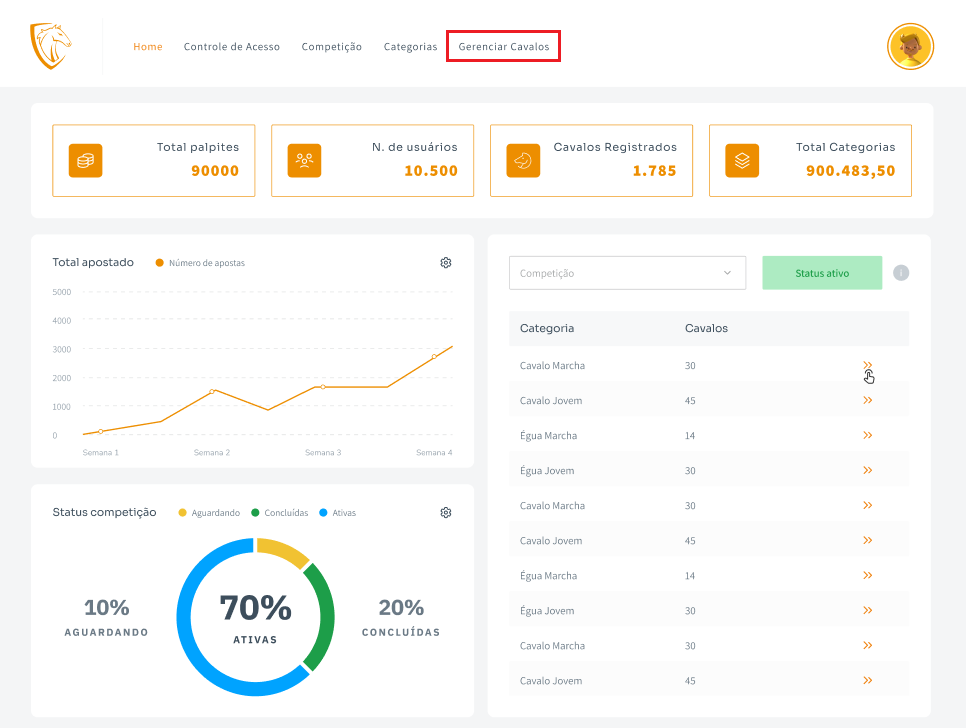
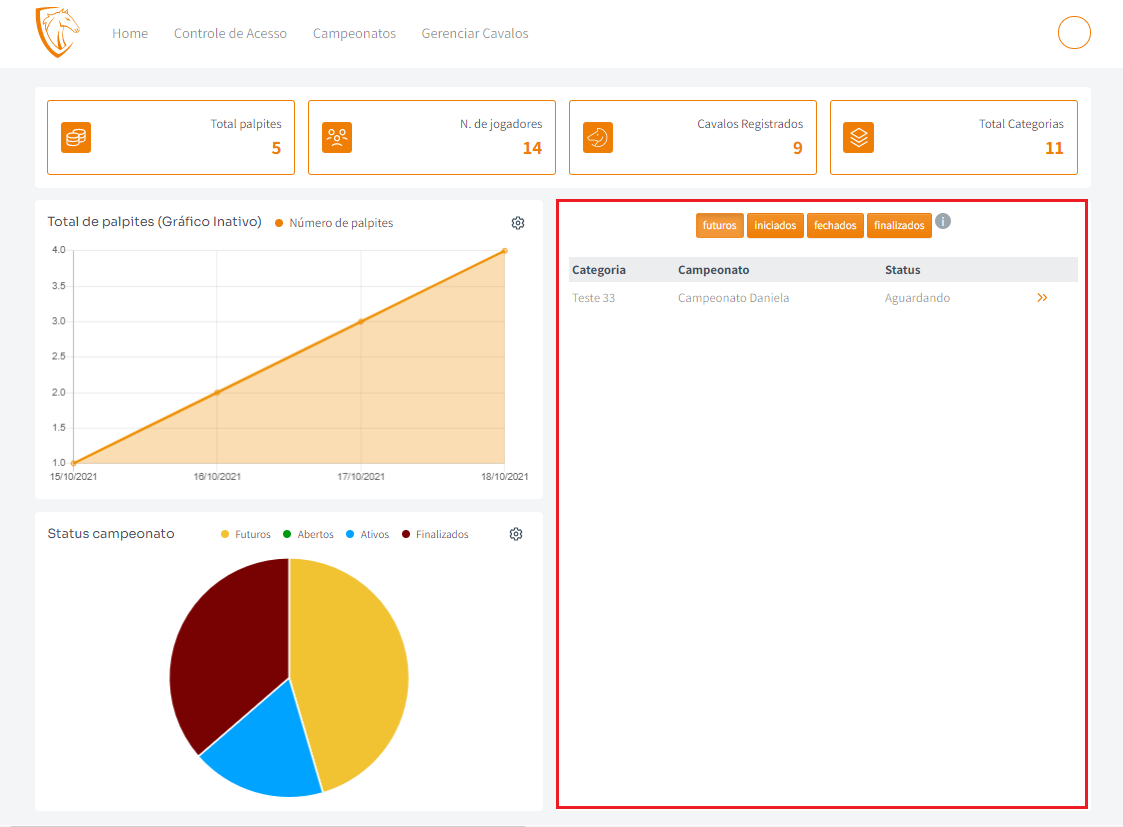
update1

diff --git a/docs/Manual do Backoffice/backoffice-mural.md b/docs/Manual do Backoffice/backoffice-mural.md
@@ -8,87 +8,60 @@ sidebar_position: 3
 
 ## NAVEGAÇÃO DA PLATAFORMA
 
-- Clicando em:
+![Mural](/img/backoffice/mural1.png)
 
-### MURAL
+#### HOME
 
 - Você acessa o Mural administrativo
 
-![Mural](/img/backoffice/mural1.png)
+#### CAMPEONATOS
 
-### CONTROLE DE ACESSO
+- Você acessa a area de gerenciamento de campeonatos
 
-- Você acessa o menu de gerenciamento de usuários
-
-![Mural](/img/backoffice/mural2.png)
-
-### COMPETIÇÃO
-
-- Você acessa a area de gerenciamento de competições
-
-![Mural](/img/backoffice/mural3.png)
-
-### CATEGORIAS 
-
-- Você acessa a area de gerenciamento de categorias
-
-![Mural](/img/backoffice/mural4.png)
-
-### GERENCIAR CAVALOS
+#### GERENCIAR CAVALOS
 
 - Você acessa a area de gerenciamento de cavalos
 
-![Mural](/img/backoffice/mural5.png)
-
-### GERENCIAR PONTUAÇÕES
+#### GERENCIAR PONTUAÇÕES
 
 - Você acessa a area de gerenciamento de pontuações dos campeonatos
 
 ## COMPOSIÇÃO DO MURAL
 
-- O mural é composto por:
+![Mural](/img/backoffice/mural2.png)
 
-### TOTAL DE PALPITES
+#### TOTAL DE PALPITES
 
 - Area onde sera mostrada o total de palpites feito pelos jogadores do Pisteiro
 
-![Mural](/img/backoffice/mural6.png)
-
-### NUMERO DE USUARIOS
+#### NUMERO DE USUARIOS
 
 - Area onde sera mostrado o numero de usuários cadastrados no Pisteiro
 
-![Mural](/img/backoffice/mural7.png)
-
-### CAVALOS REGISTRADOS
+#### CAVALOS REGISTRADOS
 
 - Area onde sera mostrado o numero de cavalos cadastrados no Pisteiro
 
-![Mural](/img/backoffice/mural8.png)
-
-### TOTAL DE CATEGORIAS
+#### TOTAL DE CATEGORIAS
 
 - Area onde sera mostrado o numero de categorias cadastradas no Pisteiro
 
-![Mural](/img/backoffice/mural9.png)
+## GRAFICOS
 
-### GRÁFICO DE PALPITES
+#### GRÁFICO DE PALPITES
+
+![Mural](/img/backoffice/mural3.png)
 
 - O gráfico mostra o numero de palpites feitos pelos jogadores do Pisteiro de acordo com o tempo
 
-![Mural](/img/backoffice/mural10.png)
-
-### GRÁFICO DE STATUS DA COMPETIÇÃO
+#### GRÁFICO DE STATUS DO CAMPEONATO
 
 - O gráfico mostra a comparação do numero de competições Aguardando, Ativas e Concluidas
 
-![Mural](/img/backoffice/mural11.png)
+![Mural](/img/backoffice/mural4.png)
 
-### STATUS DA COMPETIÇÃO SELECIONADA
+#### FILTRO DE CAMPEONATOS
 
-- Quando você selecionar uma competição, a area mostrara:
-    - Status da competição
-    - Categorias da competição
-    - Numero de cavalos cadastrados na categorias
+![Mural](/img/backoffice/mural5.png)
 
-![Mural](/img/backoffice/mural12.png)
+- Quando você selecionar um ou mais status, a area mostrara as competições com os status equivalentes.

diff --git a/docs/Manual do Backoffice/campeonato.md b/docs/Manual do Backoffice/campeonato.md
@@ -1,0 +1,48 @@
+# GERENCIAR CAMPEONATO
+
+Quando clicar em "Campeonatos" no canto superior, abrira a lista de campeonatos cadastrados.
+
+![Campeonato](/img/backoffice/campeonato1.png)
+
+## COMO CADASTRAR UM NOVO CAMPEONATO?
+
+### 1. Clique em "Novo Campeonato"
+
+![Campeonato](/img/backoffice/campeonato2.png)
+
+### 2. Insira todos os parâmetros
+
+![Campeonato](/img/backoffice/campeonato3.png)
+
+### 3. Adicione jurados
+
+![Campeonato](/img/backoffice/campeonato4.png)
+
+### 4. Clique em "Salvar"
+
+![Campeonato](/img/backoffice/campeonato5.png)
+
+## COMO EDITAR UM CAMPEONATO?
+
+### 1. Clique no icone de lápis, do campeonato que deseja editar
+
+![Campeonato](/img/backoffice/campeonato6.png)
+
+### 2. Altere os parâmetros que desejar
+
+![Campeonato](/img/backoffice/campeonato7.png)
+
+### 3. Clique em "Salvar"
+
+![Campeonato](/img/backoffice/campeonato8.png)
+
+## COMO ALTERAR O STATUS DE UM CAMPEONATO?
+
+### 1. Clique no icone de setas no campeonato que deseja alterar
+
+![Campeonato](/img/backoffice/campeonato9.png)
+
+### 2. Selecione um novo status
+
+![Campeonato](/img/backoffice/campeonato10.png)
+

diff --git a/docs/Manual do Backoffice/backoffice-login.md b/docs/Manual do Backoffice/backoffice-login.md
@@ -12,12 +12,6 @@ sidebar_position: 1
 
 ![Login](/img/backoffice/login1.png)
 
-### 3. Um código de validação foi enviado para você, verifique o seu Email
-
-### 4. Insira o código de validação
+### 5. Clique em "Entrar"
 
 ![Login](/img/backoffice/login2.png)
-
-### 5. Clique em "Confirmar"
-
-![Login](/img/backoffice/login3.png)
